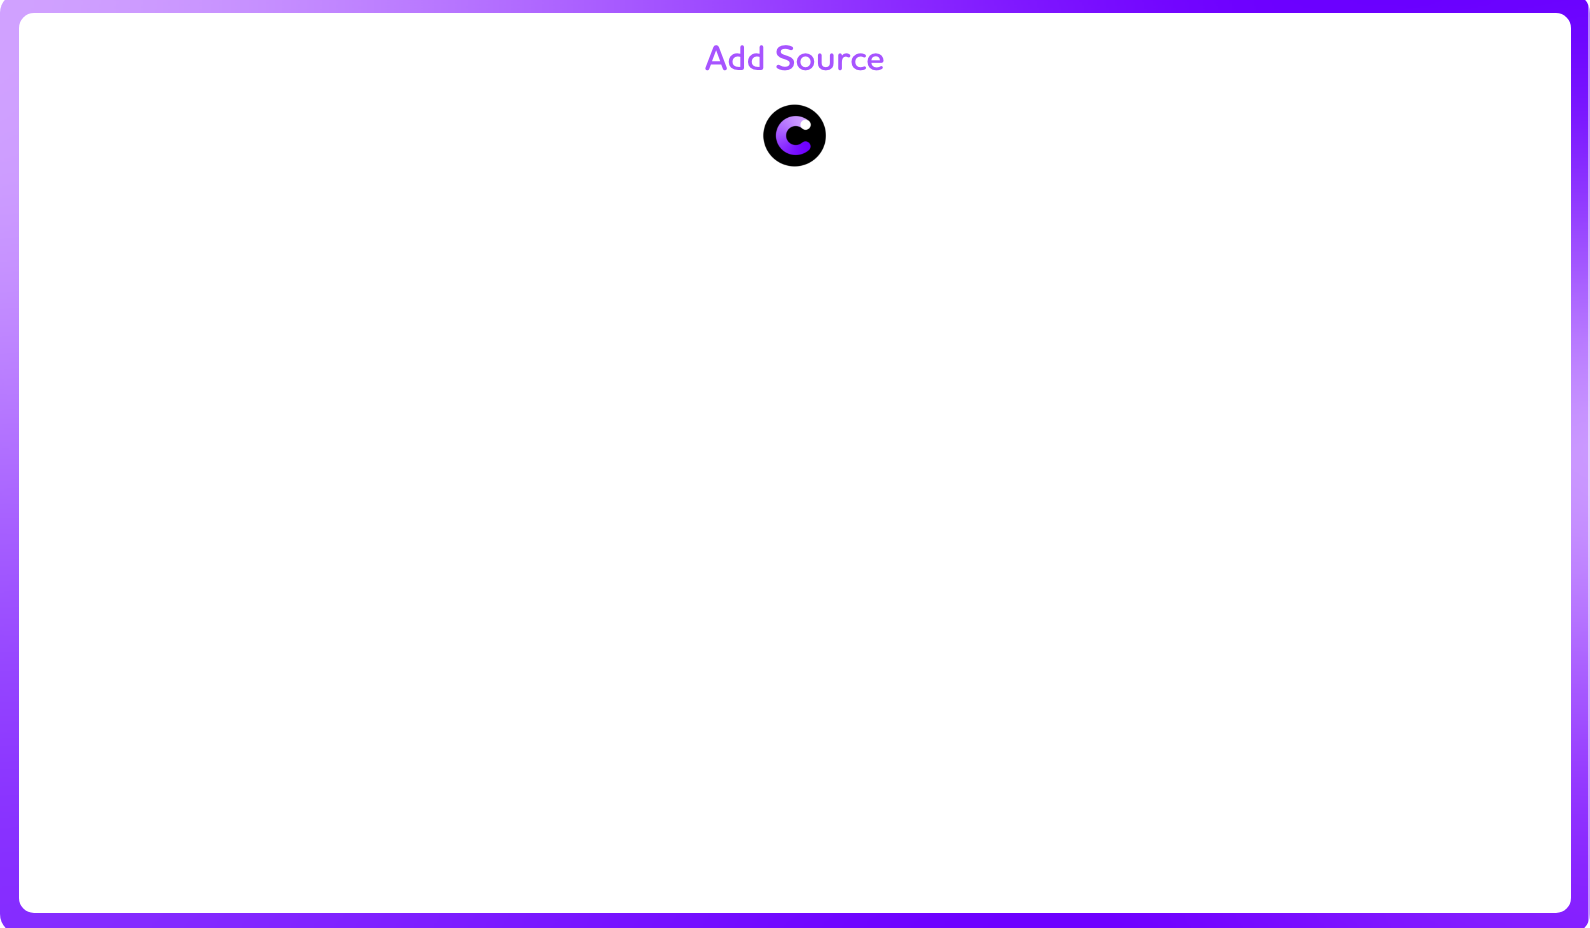
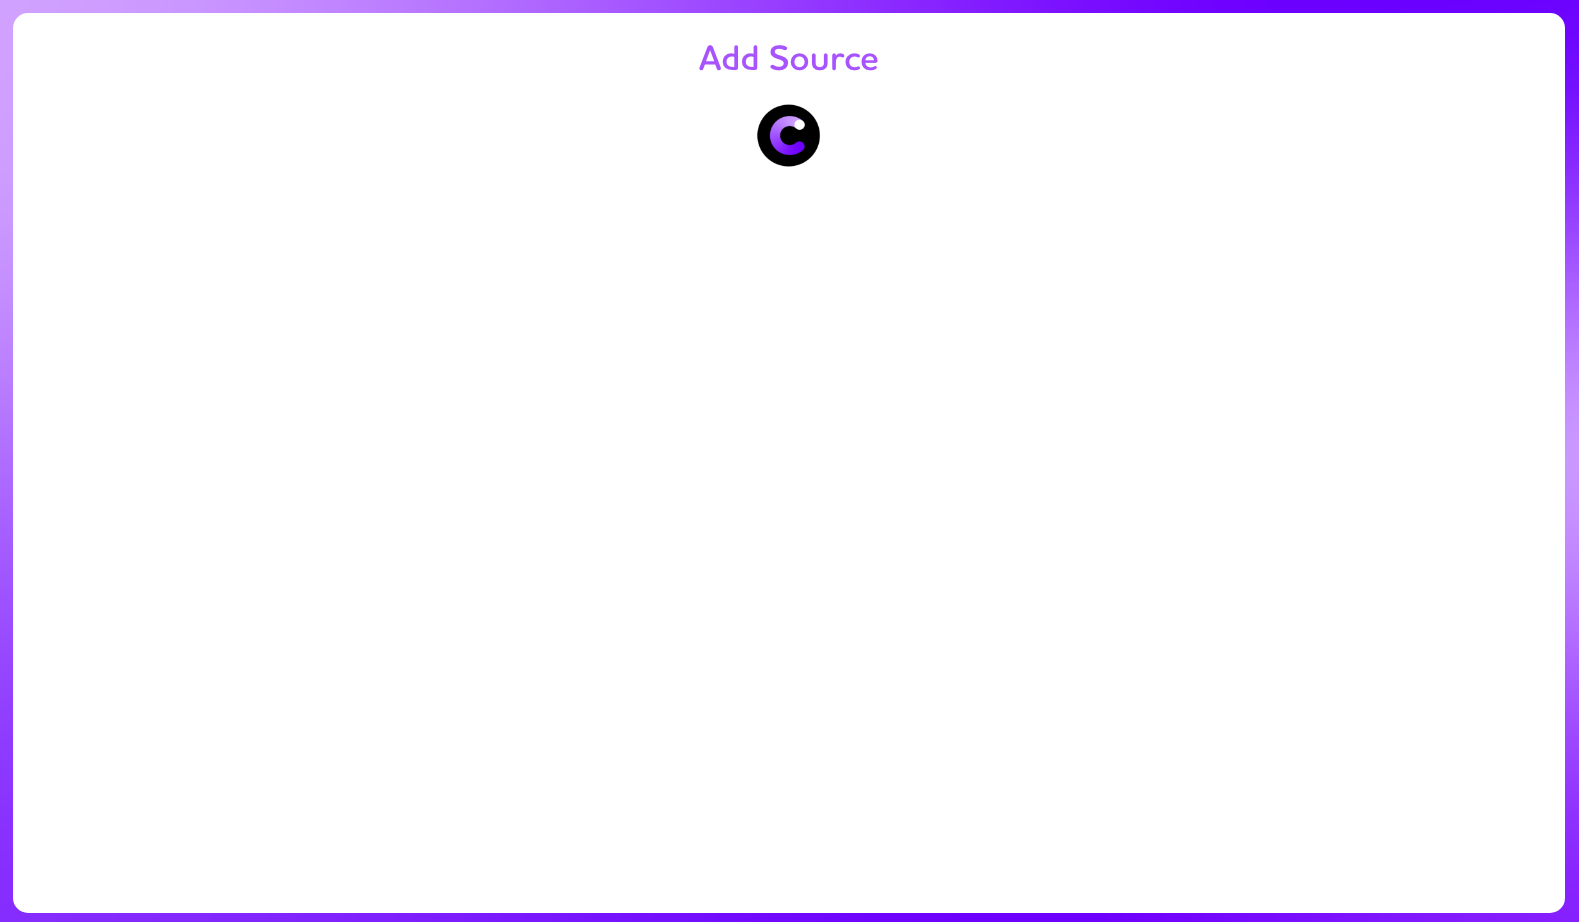
tweaked styling after call with davide

Changed region(s): [[0.0, 0.0, 1.0, 1.0], [0.4345, 0.0607, 0.5275, 0.0911], [0.4965, 0.1215, 0.5275, 0.1822]]

diff --git a/src/js/components/add_popups/AddSourcePopup.js b/src/js/components/add_popups/AddSourcePopup.js
@@ -112,6 +112,7 @@ export default function AddSourcePopup(props) {
     const handleInputChange = (event) => {
         const eventName = event.target.name;
         const eventValue = event.target.value;
+        setErrorMsg("");
         if (eventName === 'url') {
             setSourceUrl(eventValue);
             setSuggestedTitleParam('');
@@ -159,6 +160,8 @@ export default function AddSourcePopup(props) {
     const handleSubmit = () => {
         if (sourceUrl === "") {
             setErrorMsg("url is empty");
+        } else if (props.categories.length === 0) {
+            setErrorMsg("no category is selected");
         } else {
             let categoryIDSubmit = categoryID;
             if (categoryID === -1 && props.categories[props.currCatIndex] !== undefined) {
@@ -214,9 +217,13 @@ export default function AddSourcePopup(props) {
             xhr.addEventListener('load', async () => {
                 if (props.popupOpen) {
                     await setLoadingSuggestedTitle(false);
-                    setSuggestedTitle(xhr.response);
                     setPrevUrlChecked(sourceUrl);
-                    setSuggestedTitleParam(xhr.response);
+                    if (xhr.response.substring(0, 6) === 'ERROR:') {
+                        setSuggestedTitle('invalid url, please try again');
+                    } else {
+                        setSuggestedTitle(xhr.response);
+                        setSuggestedTitleParam(xhr.response);
+                    }
                 }
             });
             xhr.open('POST', 'http://localhost:3000/get_suggested_title', true);
@@ -246,19 +253,19 @@ export default function AddSourcePopup(props) {
             >
                 <div id={'add-source-div'}>
                     <CloseIcon onClick={() => {props.handleClose(); resetInputs();}} style={{fill: '#a65cff', width: '2.4vw', float: 'right', marginTop:  '1.3vw', marginRight: '1.3vw', cursor: 'pointer'}} />
-                    <div className={'houshcka_medium'} style={{fontSize: '1.2vw', marginTop: '9vw', marginLeft: '4.2vw', width: '32.4vw'}}>website url</div>
+                    <div className={'houshcka_demibold'} style={{fontSize: '1.1vw', marginTop: '9vw', marginLeft: '4.2vw', width: '32.4vw'}}>website url</div>
                     <div style={{marginTop: '.8vw', width: '32.6vw'}}>
                         <input name={'url'} className={'new-source-inputs'} style={{height: '3.5vw'}} value={sourceUrl} onChange={handleInputChange} onMouseLeave={handleSuggestedTitle} />
                     </div>
-                    <div className={'houshcka_medium'} style={{fontSize: '1.2vw', marginTop: '2vw', marginLeft: '4.2vw', width: '32.4vw'}}>source title</div>
+                    <div className={'houshcka_demibold'} style={{fontSize: '1.1vw', marginTop: '2vw', marginLeft: '4.2vw', width: '32.4vw'}}>source title</div>
                     <div style={{marginTop: '.8vw', width: '32.6vw'}}>
                         <input name={'title'} className={'new-source-inputs'} style={{height: '3.5vw'}} value={sourceTitle} onChange={handleInputChange} />
                     </div>
-                    {loadingSuggestedTitle ? <img id={'suggested-title-loading'} src={'src/images/loadingroll.gif'} alt={'loading roll gif'} /> :
+                    {loadingSuggestedTitle ? <div id={'suggested-title'}><img id={'suggested-title-loading'} src={'src/images/loadingroll.gif'} alt={'loading roll gif'} /></div> :
                         <div id={'suggested-title'} className={'houshcka_demibold'} onClick={handleUseSuggestedTitle}>
                         {suggestedTitle !== "use suggested title: " ? "use suggested title: " + suggestedTitle : ""}
                     </div>}
-                    <div className={'houshcka_medium'} style={{fontSize: '1.2vw', float: 'right', width: '34.6vw', marginTop: '-16.17vw'}}>notes</div>
+                    <div className={'houshcka_demibold'} style={{fontSize: '1.1vw', float: 'right', width: '34.6vw', marginTop: '-16.17vw'}}>notes</div>
                     <Scrollbars
                         style={{float: 'right', width: '32vw', marginTop: '-13.77vw', height: '25vw', marginRight: '2.7vw'}}
                         //id='source_scroll_div'
@@ -267,7 +274,7 @@ export default function AddSourcePopup(props) {
                     >
                         <textarea id={'source-notes-textarea'} className={'scrollable-textarea'} name={'notes'} value={sourceNotes} onChange={handleInputChange} onInput={handleOnInput} />
                     </Scrollbars>
-                    <div className={'houshcka_medium'} style={{fontSize: '1.2vw', marginLeft: '4.2vw', marginTop: '2vw'}}>class</div>
+                    <div className={'houshcka_demibold'} style={{fontSize: '1.1vw', marginLeft: '4.2vw', marginTop: '2vw'}}>class</div>
                     <select id={'cat-select'} className={'new-source-inputs'} onMouseDown={handleMouseDown} onBlur={(event) => {event.target.size = 0}} name={'parent_cat_select'} onChange={handleInputChange}>
                         {props.categories.map((category, index) => {
                             if (props.currCatIndex === index) {
@@ -277,7 +284,8 @@ export default function AddSourcePopup(props) {
                             }
                         })}
                     </select>
-                    <Button className={classes.submitButton} onClick={handleSubmit}>add source</Button>
+                    {errorMsg === "" ? <Button className={classes.submitButton} onClick={handleSubmit}>add source</Button> :
+                        <div id={'add-source-error-div'} className={'houshcka_demibold'}>{errorMsg}</div>}
                 </div>
             </Dialog>
         </div>

diff --git a/src/js/components/page_components/Profile.js b/src/js/components/page_components/Profile.js
@@ -19,8 +19,9 @@ const changeBtnStyle = {
     fontFamily: 'houschka-rounded,sans-serif',
     fontWeight: 600,
     fontStyle: 'normal',
-    fontSize: '1.2vw',
-    textTransform: 'none'
+    fontSize: '1.5vw',
+    textTransform: 'none',
+    width: '15vw'
 };
 
 class Profile extends React.Component {
@@ -57,8 +58,9 @@ class Profile extends React.Component {
                             fontStyle: 'normal', textTransform: 'none', fontSize: '1.5vw', float: 'right', marginRight: '2%'}} onClick={() => {this.setState({editOpen: true})}}>edit profile</Button>
                         <img src={'src/images/c-logo.png'} alt={'c logo'} id={'profile-c-logo'} />
                         <div className={'profile-name'}>{this.props.firstName} {this.props.lastName}</div>
+                        <div id={'num_classes_sources_div'} className={'houshcka_demibold'}>classes: {numCategories} | sources: {numSources}</div>
                         <Scrollbars
-                            style={{ height: '36%', margin: '5vh auto auto', width: '70%' }}
+                            style={{ height: '34%', margin: '5vh auto auto', width: '70%' }}
                             id='source_scroll_div'
                             thumbYProps={{ className: "thumbY" }}
                             trackXProps={{ className: "trackX" }}
@@ -78,8 +80,8 @@ class Profile extends React.Component {
                             <Button onClick={() => this.setState({changeEmailOpen: true})} style={changeBtnStyle}>change email</Button>
                             <Button onClick={() => this.setState({changePwdOpen: true})} style={changeBtnStyle}>change password</Button>
                         </div>
-                        <div id={'num-classes-div'}>classes {numCategories}</div>
-                        <div id={'num-sources-div'}>sources {numSources}</div>
+                        {/*<div id={'num-classes-div'}>classes {numCategories}</div>*/}
+                        {/*<div id={'num-sources-div'}>sources {numSources}</div>*/}
                         <ChangePasswordPopup userID={this.props.userID} changePwdOpen={this.state.changePwdOpen}
                                              handleClose={() => {this.setState({changePwdOpen: false})}} />
                         <ChangeEmailPopup userID={this.props.userID} currEmail={this.props.email} changeEmailOpen={this.state.changeEmailOpen}

diff --git a/src/index.css b/src/index.css
@@ -310,6 +310,11 @@ body {
     width: 65%;
 }
 
+#message-verification-div {
+    text-align: center;
+    font-size: 1.3vw;
+}
+
 .profile-description {
     margin: 0 auto auto;
     width: 90%;
@@ -371,9 +376,9 @@ body {
 
 .text-input-profile-description {
     font-family: houschka-rounded,sans-serif;
-    font-weight: 500;
+    font-weight: 600;
     font-style: normal;
-    font-size: 1.4vw;
+    font-size: 1.2vw;
     color: #545454;
     margin-top: 1vw;
     width: 10vw;
@@ -381,9 +386,9 @@ body {
 
 #bio-input-profile-description {
     font-family: houschka-rounded,sans-serif;
-    font-weight: 500;
+    font-weight: 600;
     font-style: normal;
-    font-size: 1.4vw;
+    font-size: 1.2vw;
     color: #545454;
     margin-top: 1.2vw;
     width: 15vw;
@@ -425,7 +430,7 @@ body {
     font-family: houschka-rounded,sans-serif;
     font-weight: 600;
     font-style: normal;
-    font-size: 2vw;
+    font-size: 2.4vw;
     color: white;
     margin: 10% auto auto;
     text-align: center;
@@ -435,7 +440,7 @@ body {
     font-family: houschka-rounded,sans-serif;
     font-weight: 400;
     font-style: normal;
-    font-size: 1.5vw;
+    font-size: 1.9vw;
     color: white;
     margin: 1% auto auto;
     text-align: center;
@@ -468,7 +473,7 @@ body {
 
 #profile-div-change-btns {
     text-align: center;
-    width: 12vw;
+    width: 15vw;
     margin: 5vw auto auto;
 }
 
@@ -508,7 +513,7 @@ body {
     border-radius: 7px;
     border: none;
     font-family: houschka-rounded,sans-serif;
-    font-weight: 500;
+    font-weight: 600;
     font-style: normal;
     font-size: 1.2vw;
     color: #854acc;
@@ -742,11 +747,13 @@ body {
     color: black;
     text-align: center;
     margin-top: 12vw;
+    font-size: 1.2vw;
 }
 
 #email-verification-div {
     color: #a65cff;
     text-align: center;
+    font-size: 1.2vw;
 }
 
 #verification-err-div {
@@ -803,6 +810,21 @@ body {
 
 #email-confirm-div-forgot-pwd {
     color: #a65cff;
+}
+
+#num_classes_sources_div {
+    text-align: center;
+    margin-top: 1.5vw;
+}
+
+#add-source-error-div {
+    text-align: center;
+    width: 50%;
+    color: #ff1427;
+    margin-top: 8.5vw;
+    float: right;
+    font-size: 1.2vw;
+    margin-right: -34.2vw;
 }
 
 

diff --git a/src/js/components/add_popups/AddCategoryPopup.js b/src/js/components/add_popups/AddCategoryPopup.js
@@ -184,11 +184,11 @@ export default function AddCategoryPopup(props) {
             >
                 <div id={'add-category-div'}>
                     <CloseIcon onClick={() => props.handleClose()} style={{fill: '#a65cff', width: '2vw', float: 'right', marginTop:  '1vw', marginRight: '1vw', cursor: 'pointer'}} />
-                    <div className={'houshcka_medium'} style={{fontSize: '1.2vw', marginTop: '10vw', marginLeft: '5vw'}}>name of class</div>
+                    <div className={'houshcka_demibold'} style={{fontSize: '1.1vw', marginTop: '10vw', marginLeft: '5vw'}}>name of class</div>
                     <div style={{marginTop: '.5vw'}}>
                         <input id={'new-cat-name'} className={'new-cat-inputs'} name={'cat_name'} value={catName} onChange={handleInputChange} />
                     </div>
-                    <div className={'houshcka_medium'} style={{fontSize: '1.2vw', marginTop: '3vw', marginLeft: '5vw'}}>parent class</div>
+                    <div className={'houshcka_demibold'} style={{fontSize: '1.1vw', marginTop: '3vw', marginLeft: '5vw'}}>parent class</div>
                     <select id={'parent-cat-select'} onMouseDown={handleMouseDown} onBlur={(event) => {event.target.size = 0}} className={'new-cat-inputs'} name={'parent_cat_select'} onChange={handleInputChange}>
                         <option id={-1} className={'select-options'} value={-1}>no parent</option>
                         {props.categories.map((category, index) => {

diff --git a/src/js/components/add_popups/VerificationCodePopup.js b/src/js/components/add_popups/VerificationCodePopup.js
@@ -85,7 +85,7 @@ export default function VerificationCodePopup(props) {
         <div id={'verify-code-popup'}>
             <CloseIcon onClick={handleClose} style={closeIconStyle} />
             <div id={'message-verification-div'} className={'houshcka_demibold'}>Please enter the six-digit code sent to:</div>
-            <div id={'email-verification-div'} className={'houshcka_demibold'}>{props.email}.</div>
+            <div id={'email-verification-div'} className={'houshcka_demibold'}>{props.email}</div>
             <input name={'verify_code'} id={'code-input'} value={verifyCode} onChange={handleInputChange} />
             {errorMsg === "" ? <Button onClick={handleSubmit} className={classes.submitBtnStyle}>submit</Button> :
             <div id={'verification-err-div'} className={'houshcka_demibold'}>{errorMsg}</div>}

diff --git a/src/js/components/add_popups/ForgotPwdPopup.js b/src/js/components/add_popups/ForgotPwdPopup.js
@@ -84,7 +84,7 @@ export default function ForgotPwdPopup(props) {
                 </div> : <div>
                 <div id={'forgot-pwd-email-div'} className={'text-input-profile-description'}>email</div>
                 <input id={'email-input-forgot-pwd'} name={'email'} value={email} onChange={handleInputChange} />
-                {errMsg === "" ? <Button onClick={() => setShowConfirmation(true)} className={classes.submitBtnStyle}>done</Button> :
+                {errMsg === "" ? <Button onClick={handleSubmit} className={classes.submitBtnStyle}>done</Button> :
                     <div id={'forgot-pwd-err'} className={'houshcka_demibold'}>{errMsg}</div>}
                 </div>}
         </div>
